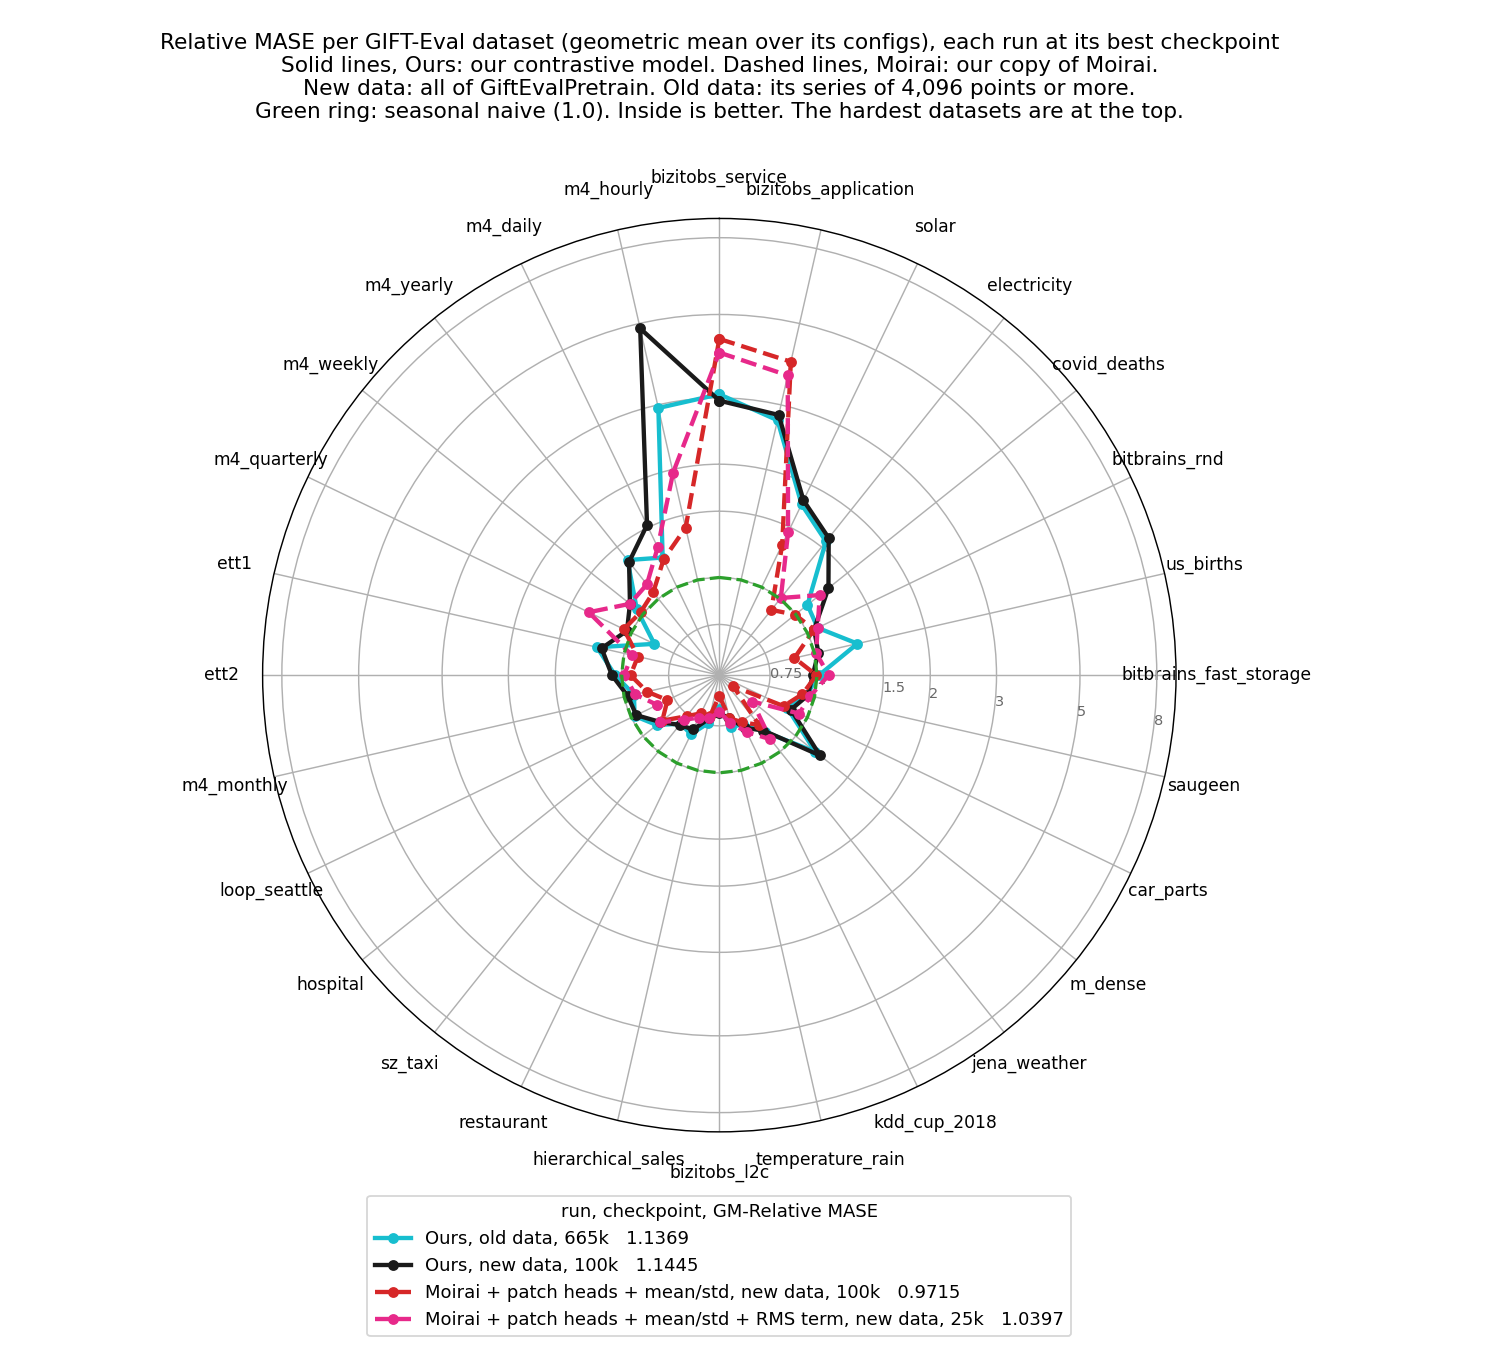
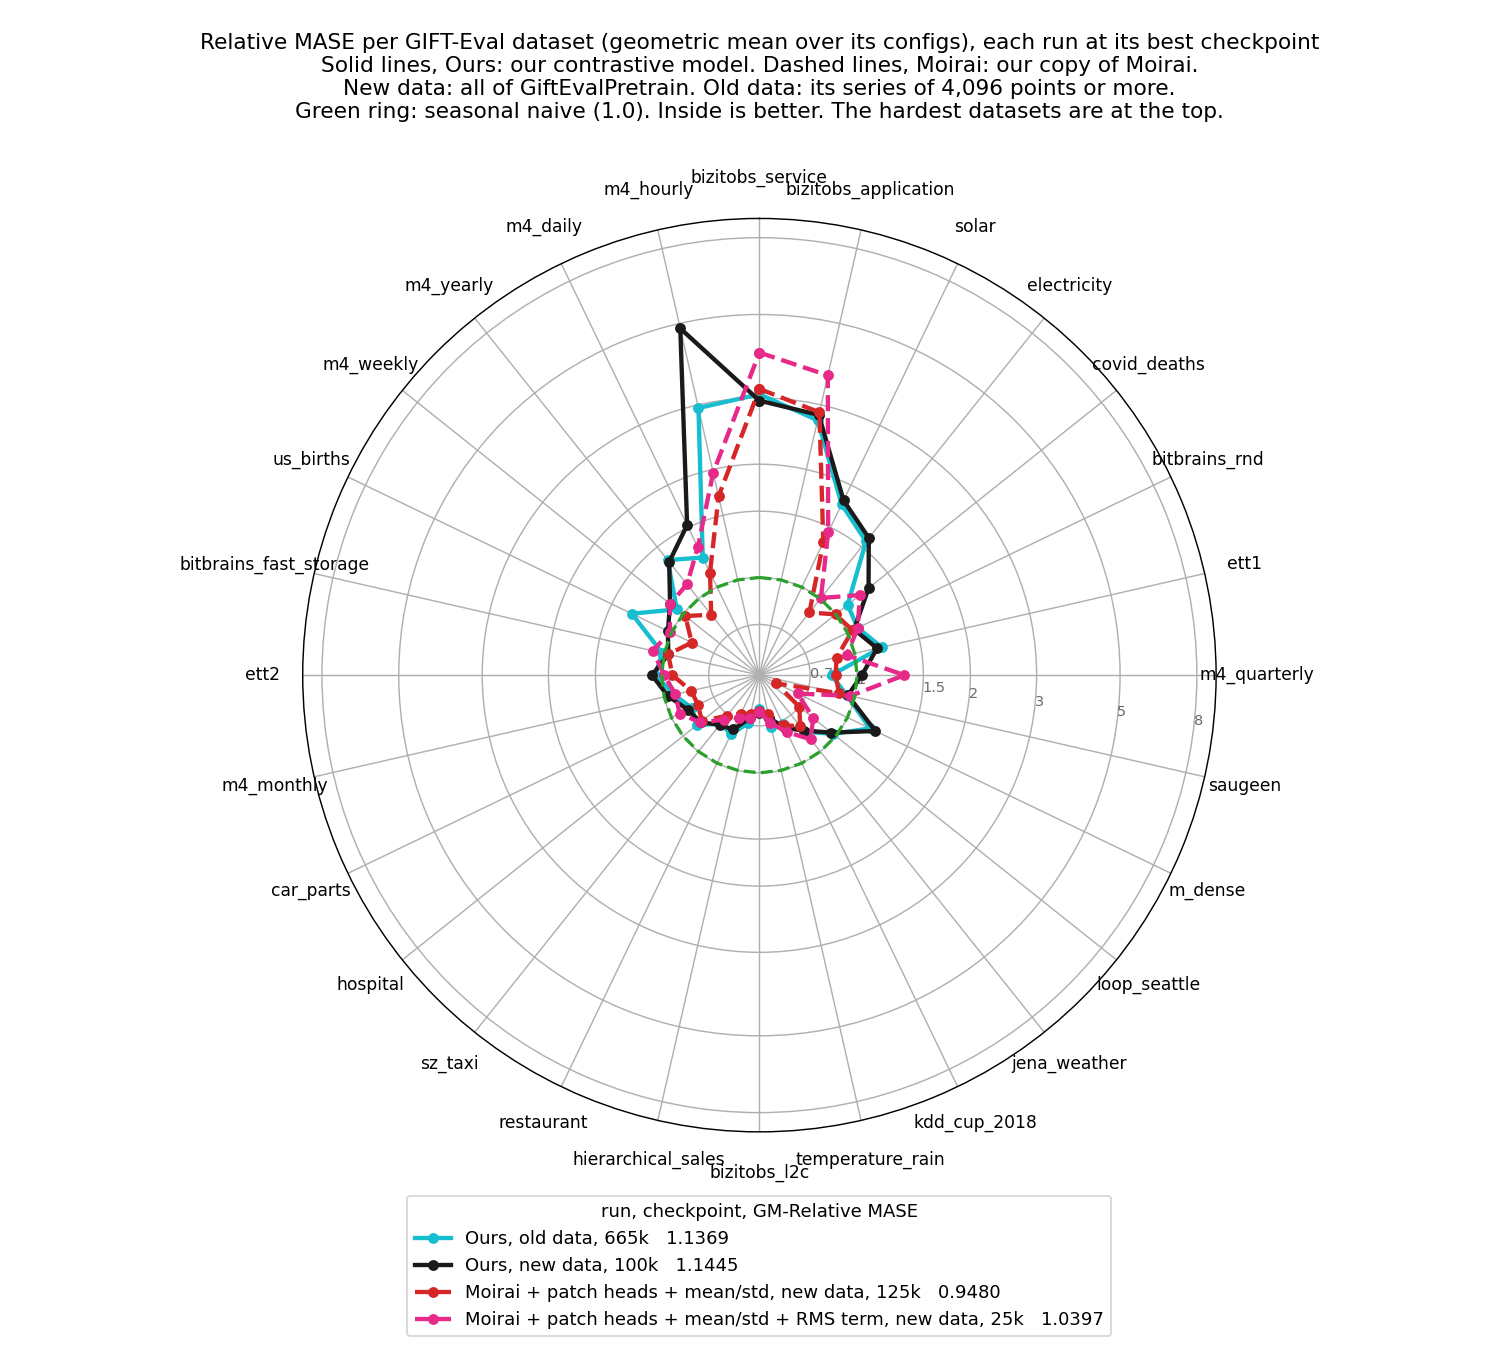
exp(#421): #421f scores 0.9480 at 125k, native
The curves reach down to 0.93.

diff --git a/reports/2026-09-06_moirai_small_size/scripts/plot_gm_rates.py b/reports/2026-09-06_moirai_small_size/scripts/plot_gm_rates.py
@@ -45,7 +45,7 @@ XSCALE = {"cf415_moirai": 4, "cf415_moirai_native": 4, "cf419_moirai_native": 4,
 # Where the last score of a line prints, so two lines that end together part.
 END_LABEL_OFFSET = {P + "_lr100x": (9, 4), P + "_cos200k": (9, -12)}
 BEST, BAND, PROJECT_BEST = 1.1369, 0.008, 1.0651
-YMIN, YMAX = 0.95, 1.32
+YMIN, YMAX = 0.93, 1.32
 
 
 def load_points():
